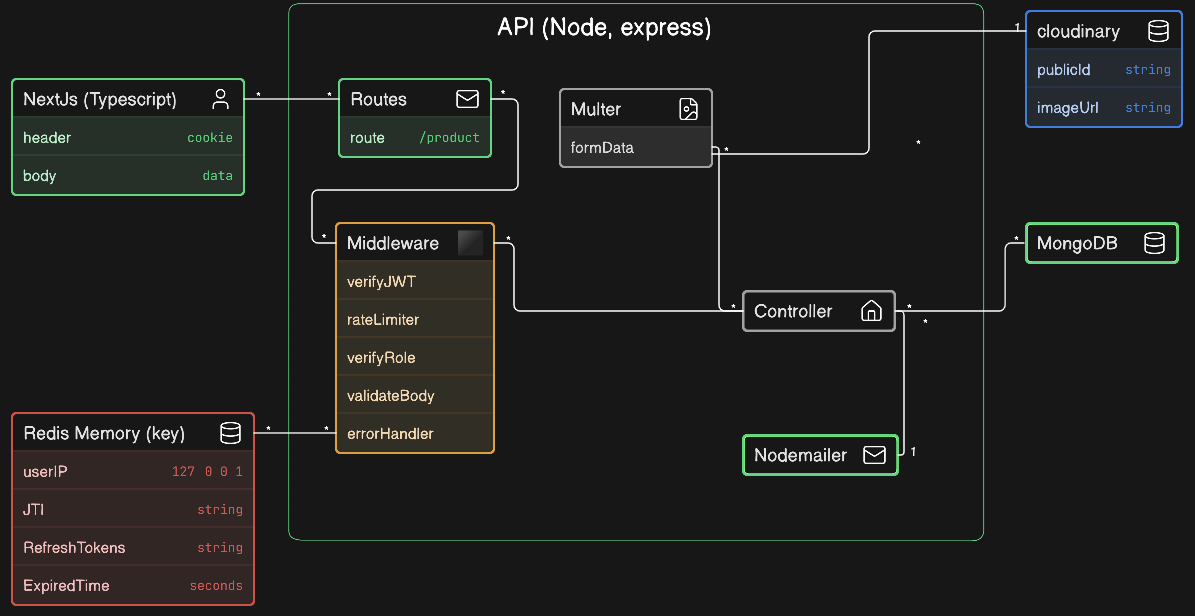
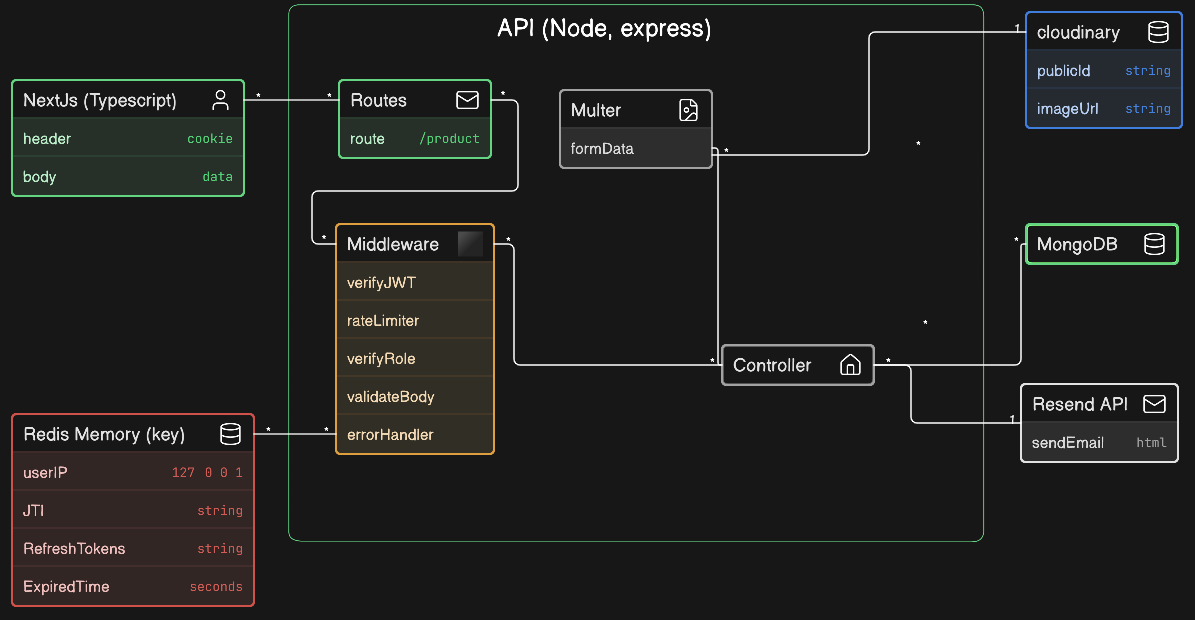
move from using nodemailer to SendMail

diff --git a/helper/sendEmail.js b/helper/sendEmail.js
@@ -1,39 +1,29 @@
-const { promises } = require("nodemailer/lib/xoauth2");
-const transporter = require("../config/emailConfig");
 const renderHtmlEmailItem = require("./renderHtmlEmailItem");
 const renderHtmlForShop = require("./renderHtmlForShop");
+const { Resend } = require("resend");
+
+const resend = new Resend(process.env.RESEND_API_KEY);
 
 const sendEmail = async ({ to, subject, text, html }) => {
   const mailOptions = {
-    from: process.env.EMAIL_USER,
+    from: process.env.SENDER_EMAIL || "Hoang An Store <onboarding@resend.dev>",
     to: to,
     subject: subject,
     text: text,
     html: html,
   };
   try {
-    const info = await transporter.sendMail(mailOptions);
+    const { data, error } = await resend.emails.send(mailOptions);
 
-    if (info.rejected.length > 0) {
-      console.warn("warning: Some recipients were rejected: ", info.rejected);
+    if (error) {
+      console.error("Resend error:", error);
+      return { success: false, error };
     }
-    return info;
+
+    return { success: true, data };
   } catch (err) {
-    switch (err.code) {
-      case "ECONNECTION":
-      case "ETIMEDOUT":
-        console.error("Network error - retry later:", err.message);
-        break;
-      case "EAUTH":
-        console.error("Authentication failed:", err.message);
-        break;
-      case "EENVELOPE":
-        console.error("Invalid recipients:", err.rejected);
-        break;
-      default:
-        console.error("Send failed:", err.message);
-    }
-    throw err;
+    console.error("Failed to send email", err);
+    return { success: false, error: err };
   }
 };
 

diff --git a/README.md b/README.md
@@ -30,6 +30,7 @@ A production-grade RESTful API featuring dual-token JWT authentication, Redis-ba
 - **Database:** MongoDB (Mongoose ORM)
 - **In-Memory Stored:** Redis
 - **File Processing:** Multer & Cloudinary
+- **Sending Email:** Resend API
 - **Hosting:** Render Web Service
 
 ---
@@ -65,9 +66,7 @@ CLOUDINARY_CLOUD_NAME=your_cloud_name
 CLOUDINARY_API_KEY=your_api_key
 CLOUDINARY_API_SECRET=your_api_secret
 CLIENT_URL=https://your-app.vercel.app
-//Transactional Email Settings (Nodemailer)
-EMAIL_HOST=your_host
-EMAIL_PORT=your_port
-EMAIL_USER=your_email
-EMAIL_PASS=your_password (abcd dcba bacd cadb)
+//Transactional Email Settings (Resend)
+RESEND_API_KEY=your_Resend_API_key
+SENDER_EMAIL=your_Store's_name_<support@yourDomain.xyz>
 ```
